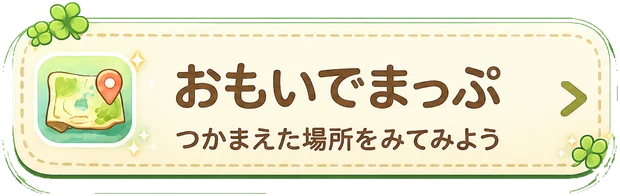
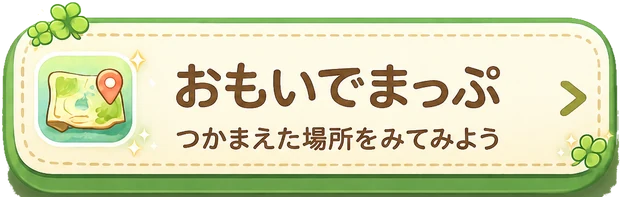
おもいでまっぷだけ みどりの ふちが 消(き)えて いたのを 直(なお)した（v131）
原因：はいけいを けす とき、この えだけ まわりの ひかりと
みどりの ふちの 色(いろ)が ちかくて、ふちまで いっしょに
けずって しまって いた。それで まえの えと 見(み)た目(め)が
ほとんど かわらなかった。

なおしかた
・この えだけ、はっきりした みどり／クリーム色(いろ)を
  「まもる ところ」に して から はいけいを けす ように した
・下(した)に のこって いた うすい かげも 切(き)りおとした
  （かげは CSSで つけて いる ので いらない）

たしかめた こと
・412／360／320 の 3つの おおきさで はみ出(だ)し なし
・5つとも ちゃんと ひらく
・みどりの ふちが ほかの 4つと そろった

Claude-Session: https://claude.ai/code/session_0117rxThQ1NyrT7KgAK1ereN

diff --git a/css/style.css b/css/style.css
@@ -202,7 +202,7 @@ button { font-family: inherit; cursor: pointer; border: none; color: inherit; }
 .drawer-item.di-arena { aspect-ratio: 620 / 233; background-image: url("../img/di-arena.webp"); }
 .drawer-item.di-quiz  { aspect-ratio: 620 / 231; background-image: url("../img/di-quiz.webp"); }
 .drawer-item.di-sort  { aspect-ratio: 620 / 229; background-image: url("../img/di-sort.webp"); }
-.drawer-item.di-map   { aspect-ratio: 620 / 196; background-image: url("../img/di-map.webp"); }
+.drawer-item.di-map   { aspect-ratio: 620 / 197; background-image: url("../img/di-map.webp"); }
 /* いちばん した：ばーじょん（ひだり）と ⚙設定（みぎ） */
 .drawer-bottom {
   margin-top: auto; display: flex; align-items: flex-end; justify-content: space-between; gap: 10px;

diff --git a/service-worker.js b/service-worker.js
@@ -1,5 +1,5 @@
 /* むしずかん — サービスワーカー（オフラインでも つかえる／あたらしい ばんに すぐ なる）*/
-const CACHE = "mushizukan-v130";
+const CACHE = "mushizukan-v131";
 /* ちずの タイルは バージョンを 上(あ)げても すてない（ためた ぶんが むだに ならない）*/
 const TILES = "mushizukan-tiles";
 const TILE_HOST = "https://tile.openstreetmap.org/";

diff --git a/js/app.js b/js/app.js
@@ -2,7 +2,7 @@
 (() => {
   "use strict";
 
-  const APP_VERSION = "v130";
+  const APP_VERSION = "v131";
 
   const $ = (s, e = document) => e.querySelector(s);
   const $$ = (s, e = document) => [...e.querySelectorAll(s)];
